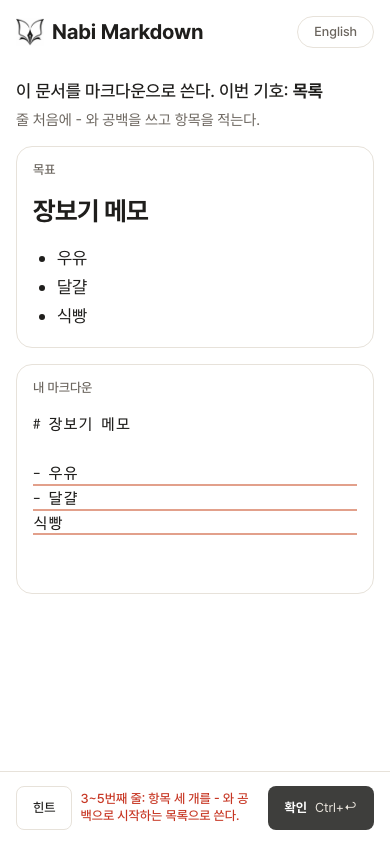
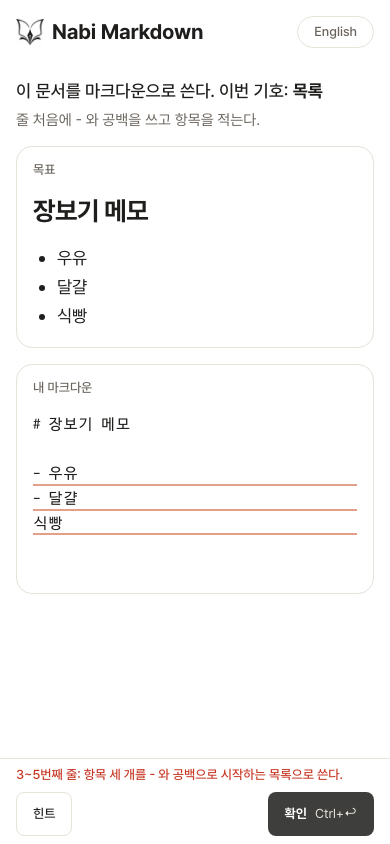
fix(variants): 휴대폰 판정 바는 문구 한 줄 + 단추 한 줄로 접어 '정답 보기'가 생겨도 눌리지 않게 (Codex P2)
- variants.css: 767px 이하에서 .rd-bar__inner를 wrap, 상태 문구를 첫 줄 전체 폭으로, 단추 묶음은 줄 바꿈 허용
- e2e: 세 시안 × 390·320 폭에서 두 번 실패 뒤 '정답 보기' 상태의 가로 스크롤·문구 폭·바 높이·단추 위치 단언, 정답 펼침 확인
- 390 다시/통과 캡처 7장 재생성, README 측정 문구 갱신

Changed region(s): [[0.0308, 0.8934, 0.9538, 1.0]]

diff --git a/tests/e2e/capture-redesign-variants.spec.ts b/tests/e2e/capture-redesign-variants.spec.ts
@@ -201,6 +201,48 @@ test.afterAll(() => {
   )
 })
 
+// 두 번 실패하면 판정 바에 "정답 보기"가 더 생긴다(계획서 §4.1). 좁은 폭에서
+// 단추 셋과 확인이 한 줄에 몰려 문구를 누르거나 넘치지 않는지 본다 — 시안 B는
+// 건너뛰기까지 있어 가장 붐빈다(Codex 리뷰 P2).
+for (const width of [390, 320] as const) {
+  for (const variant of VARIANTS) {
+    test(`시안 ${variant.toUpperCase()} · ${width} · 두 번 실패 뒤 정답 보기`, async ({
+      page,
+    }) => {
+      trackConsole(page)
+      await page.setViewportSize({ width, height: 844 })
+      await openVariant(page, variant)
+      await reachState(page, "retry")
+      await page.getByRole("button", { name: /^확인/ }).click()
+      const answerButton = page.getByRole("button", { name: "정답 보기" })
+      await expect(answerButton).toBeVisible()
+
+      await assertNoHorizontalScroll(page)
+      const bar = page.getByTestId("rd-bar")
+      const [barBox, statusBox, viewportHeight] = await Promise.all([
+        bar.boundingBox(),
+        page.getByTestId("rd-status").boundingBox(),
+        page.evaluate(() => window.innerHeight),
+      ])
+      expect(barBox).not.toBeNull()
+      expect(statusBox).not.toBeNull()
+      // 문구는 바 폭의 대부분을 쓰고(한 글자 폭으로 눌리지 않는다), 바는
+      // 화면의 4분의 1을 넘지 않는다.
+      expect(statusBox!.width).toBeGreaterThan(barBox!.width * 0.8)
+      expect(barBox!.height).toBeLessThan(viewportHeight / 4)
+      for (const name of ["힌트", "정답 보기"]) {
+        const box = await page.getByRole("button", { name }).boundingBox()
+        expect(box!.x + box!.width, name).toBeLessThanOrEqual(width)
+      }
+
+      await answerButton.click()
+      await expect(page.getByTestId("rd-answer")).toContainText("# 장보기 메모")
+      await assertNoHorizontalScroll(page)
+      expect(consoleErrors.get(page)).toEqual([])
+    })
+  }
+}
+
 // 허브 제품 페이지(https://onsoonlabs.com/topki/) 1280 캡처를 시안 A·B·C의
 // 1280 '처음' 캡처 옆에 둔 비교 이미지. 바깥 네트워크를 쓰므로 캡처 모드에서만.
 test("허브 제품 페이지와 나란히 둔 비교 이미지", async ({ page, browser }) => {

diff --git a/src/variants/variants.css b/src/variants/variants.css
@@ -618,8 +618,31 @@ html[data-redesign] #root {
     text-align: left;
   }
 
+  /* 휴대폰: 상태 문구는 자기 줄을 차지하고 단추들은 그 아래 한 줄에 놓인다.
+     두 번 실패해 "정답 보기"가 생기거나 320px 폭이어도 단추가 줄 바꿈으로
+     들어가고 문구가 눌리지 않는다. 문구가 비면 단추 줄만 남는다. */
+  .rd-bar__inner {
+    flex-wrap: wrap;
+    row-gap: var(--s1);
+  }
+
   .rd-bar__status {
+    order: -1;
+    flex: 1 1 100%;
     font-size: var(--t-xs);
+  }
+
+  .rd-bar__status:empty {
+    display: none;
+  }
+
+  .rd-bar__left {
+    flex: 1 1 auto;
+    flex-wrap: wrap;
+  }
+
+  .rd-bar__inner > .rd-btn--primary {
+    margin-left: auto;
   }
 
   .rd-btn {
